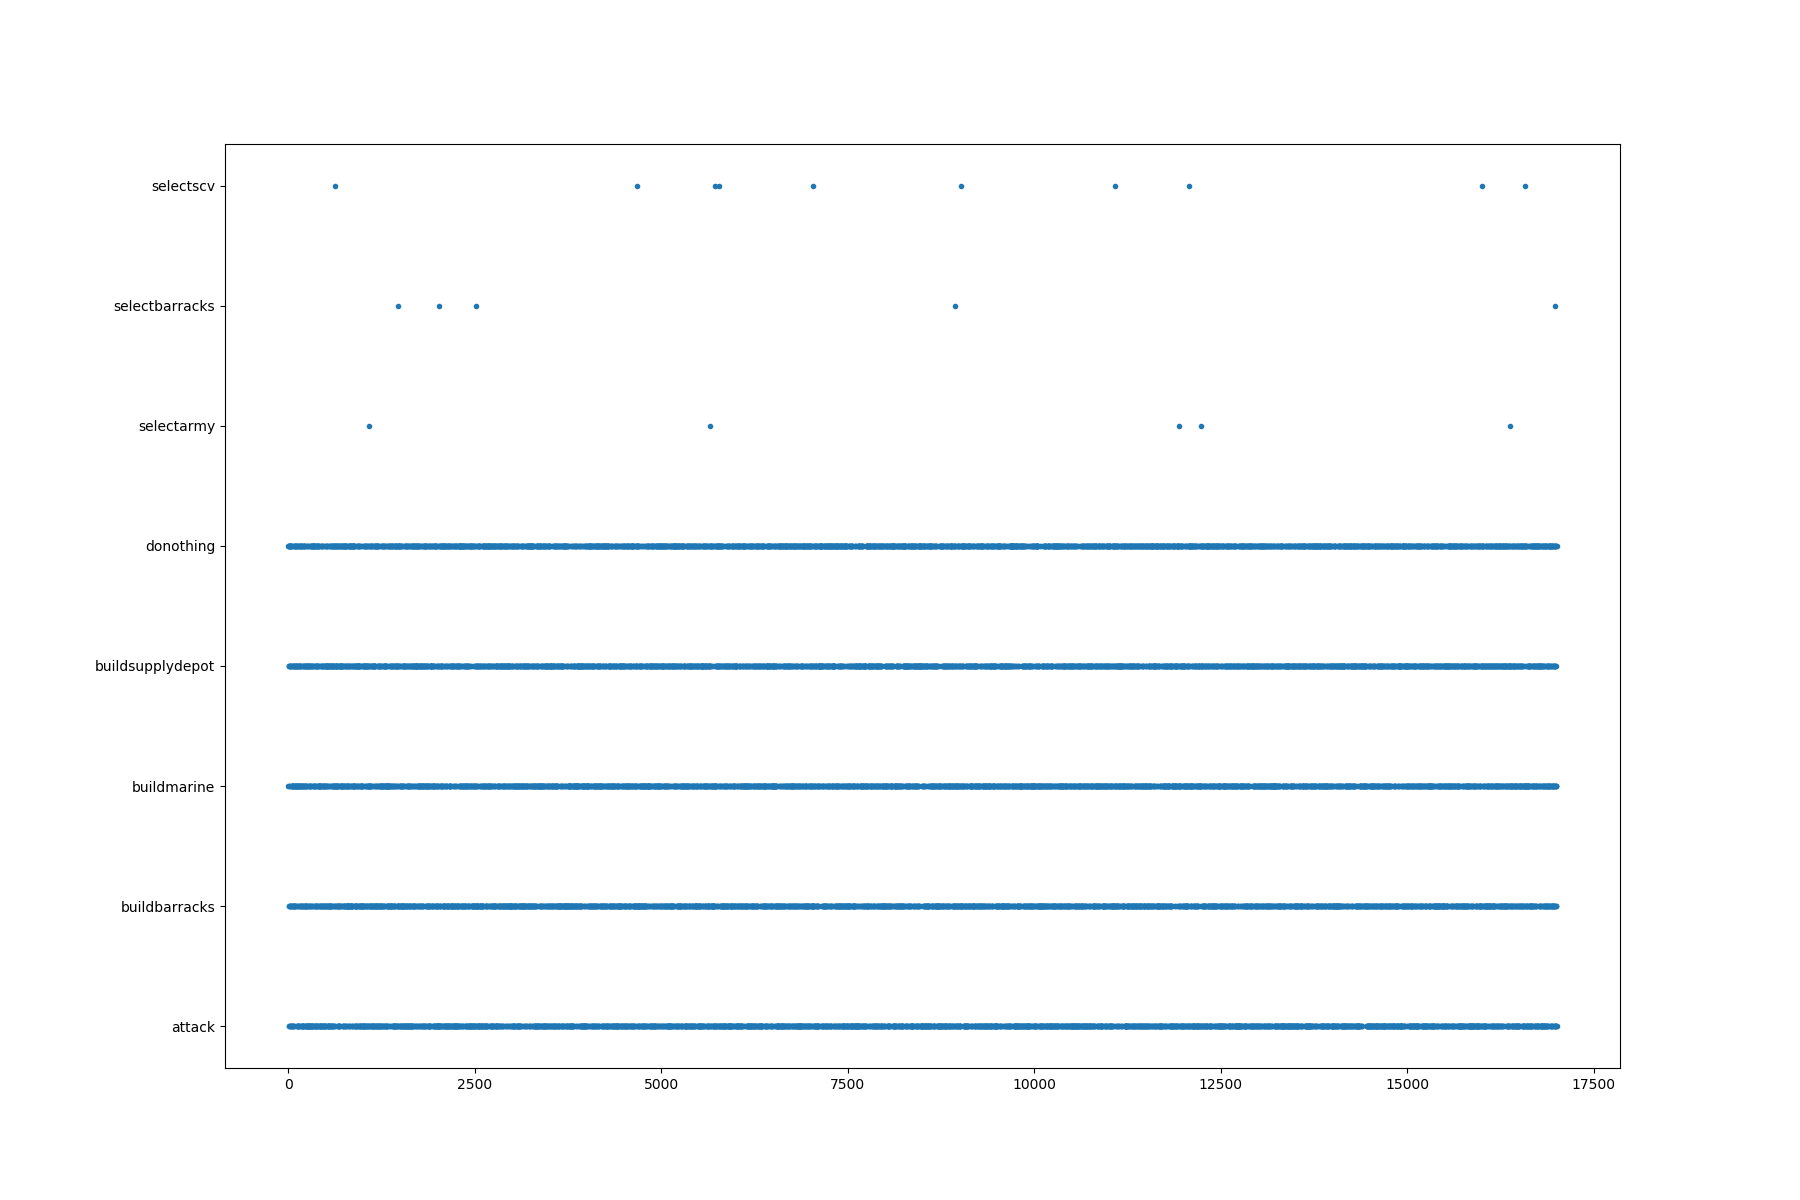
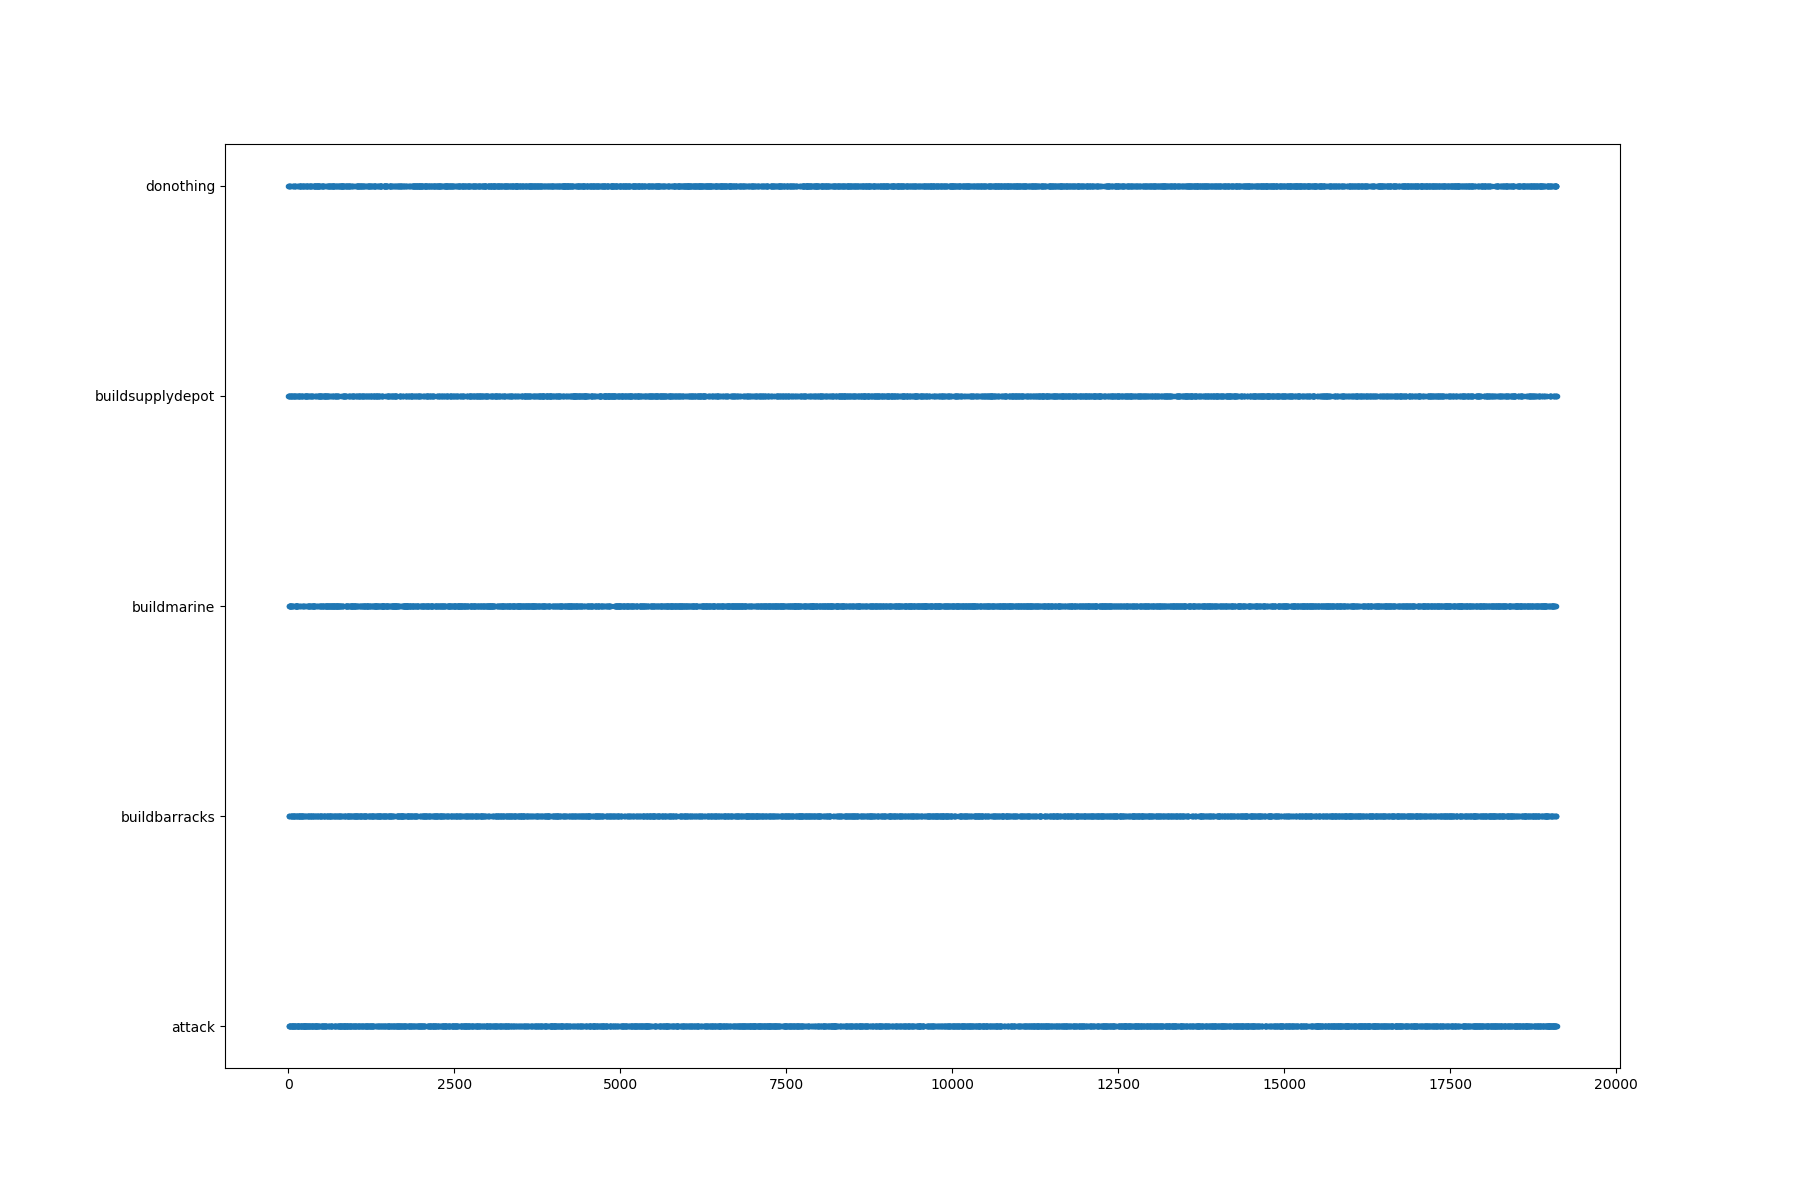
Simplified layers and modified the model to choose the x and y

diff --git a/src/QAgent.py b/src/QAgent.py
@@ -3,6 +3,7 @@ import torch.nn as nn
 import torch.nn.functional as F
 import torch.optim as optim
 import os
+from random import randrange
 
 import matplotlib.pyplot as plt
 
@@ -15,9 +16,10 @@ from pysc2.lib import actions
 
 DATA_FILE = 'sparse_agent_data'
 USE_CUDA = True
-SavedAction = namedtuple('SavedAction', ['log_prob', 'value'])
+IS_RANDOM = False
+SavedAction = namedtuple('SavedAction', ['log_prob', 'value', 'x', 'y'])
 layer = 2
-num_layers = 20
+num_layers = 4
 
 
 def convolution_layer(x, input_layers):
@@ -37,11 +39,13 @@ def residual_layer(x, input_layers, layer_size):
 class Policy(nn.Module):
     def __init__(self):
         super(Policy, self).__init__()
-        residual_out_size = 81920
+        residual_out_size = 62208
         self.mp = nn.MaxPool2d(8)
-        self.lin1 = nn.Linear(residual_out_size, 8192)
-        self.action_head = nn.Linear(8192, len(ACTIONS.smart_actions))
-        self.value_head = nn.Linear(8192, 1)
+        self.lin1 = nn.Linear(residual_out_size, 2048)
+        self.action_head = nn.Linear(2048, len(ACTIONS.smart_actions))
+        self.value_head = nn.Linear(2048, 1)
+        self.x = nn.Linear(2048, 64)
+        self.y = nn.Linear(2048, 64)
         self.saved_log_probs = []
         self.rewards = []
         self.saved_actions = []
@@ -50,25 +54,31 @@ class Policy(nn.Module):
     def select_action(self, state):
         state = torch.from_numpy(state).float().unsqueeze(0)
         if USE_CUDA and torch.cuda.is_available():
-            probs, state_value = self.forward(Variable(state).cuda())
+            probs, state_value, x, y = self.forward(Variable(state).cuda())
         else:
-            probs, state_value = self.forward(Variable(state))
+            probs, state_value, x, y = self.forward(Variable(state))
         m = Categorical(probs)
+        x_probs = Categorical(x)
+        y_probs = Categorical(y)
+        x_coord = x_probs.sample()
+        y_coord = y_probs.sample()
         action = m.sample()
-        self.saved_actions.append(SavedAction(m.log_prob(action).data[0], state_value.data[0][0]))
+        self.saved_actions.append(SavedAction(m.log_prob(action).data[0], state_value.data[0][0], x_probs.log_prob(x_coord).data[0], y_probs.log_prob(y_coord).data[0]))
         # self.saved_actions.append(SavedAction(m.log_prob(action), state_value))
-        return action.data[0]
+        return action.data[0], x_coord, y_coord
 
     def forward(self, x):
         x = convolution_layer(x, layer * num_layers)
         x = residual_layer(x, 256, 78)
-        x = residual_layer(x, 256 * 2, 74)
-        x = residual_layer(x, 256 * 3, 70)
-        x = self.mp(residual_layer(x, 256 * 4, 66))
+        # x = residual_layer(x, 256 * 2, 74)
+        # x = residual_layer(x, 256 * 3, 70)
+        x = self.mp(residual_layer(x, 256 * 2, 74))
         x = F.relu(self.lin1(x.view(x.size(0), -1)))
         action_scores = self.action_head(x)
         state_values = self.value_head(x)
-        return F.softmax(action_scores, dim=-1), state_values
+        x_coord = self.x(x)
+        y_coord = self.y(x)
+        return F.softmax(action_scores, dim=-1), state_values, F.softmax(x_coord, dim=-1), F.softmax(y_coord, dim=-1)
 
 
 def finish_episode(model, optimizer):
@@ -84,11 +94,13 @@ def finish_episode(model, optimizer):
         rewards.insert(0, R)
     rewards = torch.Tensor(rewards)
     rewards = (rewards - rewards.mean()) / (rewards.std() + np.finfo(np.float32).eps)
-    for (log_prob, value), r in zip(saved_actions, rewards):
+    for (log_prob, value, x_prob, y_prob), r in zip(saved_actions, rewards):
         log_prob = Variable(torch.FloatTensor([log_prob]), requires_grad=True).cuda()
+        x_prob = Variable(torch.FloatTensor([x_prob]), requires_grad=True).cuda()
+        y_prob = Variable(torch.FloatTensor([y_prob]), requires_grad=True).cuda()
         value = Variable(torch.FloatTensor([[value]]), requires_grad=True).cuda()
         reward = r - value.data[0]
-        policy_losses.append(-log_prob * Variable(reward))
+        policy_losses.append(-log_prob * Variable(reward) + -x_prob * Variable(reward) + -y_prob * Variable(reward))
         value_losses.append(F.smooth_l1_loss(value, Variable(torch.Tensor([r])).cuda()))
     optimizer.zero_grad()
     loss = torch.stack(policy_losses).sum() + torch.stack(value_losses).sum()
@@ -98,7 +110,9 @@ def finish_episode(model, optimizer):
     del model.rewards[:]
     del model.saved_actions[:]
 
+
 policy = Policy()
+
 
 class RLAgent(base_agent.BaseAgent):
     def __init__(self):
@@ -106,7 +120,7 @@ class RLAgent(base_agent.BaseAgent):
         self.policy = policy
         if USE_CUDA and torch.cuda.is_available():
             self.policy = self.policy.cuda()
-        self.optimizer = optim.Adam(self.policy.parameters(), lr=1e-2)
+        self.optimizer = optim.Adam(self.policy.parameters(), lr=0.01)
 
         self.previous_action = None
         self.previous_state = None
@@ -131,10 +145,15 @@ class RLAgent(base_agent.BaseAgent):
         print("Won: ", self.won, " Lost: ", self.lost, "Tied: ", self.tied)
 
     def step(self, obs):
+
+        if IS_RANDOM:
+            if self.step_num % 3 != 0:
+                return
+
         super(RLAgent, self).step(obs)
         self.step_num += 1
         if obs.last():
-            reward = -500 if obs.reward == 0 else obs.reward * 500
+            reward = obs.reward * 15
 
             self.policy.rewards.append(reward)
             # plt.plot(self.policy.rewards)
@@ -143,19 +162,20 @@ class RLAgent(base_agent.BaseAgent):
             self.previous_state = None
 
             self.move_number = 0
-            # Train our network.
-            print("Episode Reward: ", sum(self.policy.rewards))
-            plt.figure(figsize=(18.0, 12.0))
-            plt.plot(self.actions, '.')
-            script_dir = os.path.dirname(__file__)
-            results_dir = os.path.join(script_dir, 'A2CResults/')
-            sample_file_name = str(self.episodes)
+            if IS_RANDOM is False:
+                # Train our network.
+                print("Episode Reward: ", sum(self.policy.rewards))
+                plt.figure(figsize=(18.0, 12.0))
+                plt.plot(self.actions, '.')
+                script_dir = os.path.dirname(__file__)
+                results_dir = os.path.join(script_dir, 'A2CResults/')
+                sample_file_name = str(self.episodes)
 
-            if not os.path.isdir(results_dir):
-                os.makedirs(results_dir)
+                if not os.path.isdir(results_dir):
+                    os.makedirs(results_dir)
 
-            plt.savefig(results_dir + sample_file_name)
-            finish_episode(self.policy, self.optimizer)
+                plt.savefig(results_dir + sample_file_name)
+                finish_episode(self.policy, self.optimizer)
             if obs.reward > 0:
                 self.won += 1
             elif obs.reward == 0:
@@ -201,10 +221,10 @@ class RLAgent(base_agent.BaseAgent):
                 killed_unit_score = obs.observation['score_cumulative'][5]
                 killed_building_score = obs.observation['score_cumulative'][6]
 
-                # if killed_building_score > self.previous_killed_building_score:
-                #     reward += 1
-                # if killed_unit_score > self.previous_killed_units_score:
-                #     reward += 0.05
+                if killed_building_score > self.previous_killed_building_score:
+                    reward += 1
+                if killed_unit_score > self.previous_killed_units_score:
+                    reward += 0.05
 
                 self.policy.rewards.append(reward)
                 # finish_episode(self.policy, self.optimizer)
@@ -212,36 +232,31 @@ class RLAgent(base_agent.BaseAgent):
                 self.previous_killed_building_score = killed_building_score
                 self.previous_killed_units_score = killed_unit_score
 
-            # if self.rl_input is None:
-            #     self.rl_input = np.array([np.pad(obs.observation['minimap'][0], [(0, 20), (0, 20)], mode='constant'),
-            #                      np.pad(obs.observation['minimap'][1], [(0, 20), (0, 20)], mode='constant'),
-            #                      np.pad(obs.observation['minimap'][5], [(0, 20), (0, 20)], mode='constant'),
-            #                      obs.observation['screen'][6]])
-            # else:
-            #     self.rl_input = np.concatenate((self.rl_input, np.array([np.pad(obs.observation['minimap'][0], [(0, 20), (0, 20)], mode='constant'),
-            #                      np.pad(obs.observation['minimap'][1], [(0, 20), (0, 20)], mode='constant'),
-            #                      np.pad(obs.observation['minimap'][5], [(0, 20), (0, 20)], mode='constant'),
-            #                      obs.observation['screen'][6]])))
+            if IS_RANDOM is False:
+                if self.rl_input is None:
+                    self.rl_input = np.array([np.pad(obs.observation['minimap'][5], [(0, 20), (0, 20)], mode='constant'),
+                                     obs.observation['screen'][6]])
+                    for _ in range(num_layers - 1):
+                        self.rl_input = np.concatenate((self.rl_input, np.array(
+                            [np.pad(obs.observation['minimap'][5], [(0, 20), (0, 20)], mode='constant'),
+                             obs.observation['screen'][6]])))
+                else:
+                    self.rl_input = np.concatenate((self.rl_input, np.array([np.pad(obs.observation['minimap'][5], [(0, 20), (0, 20)], mode='constant'),
+                                     obs.observation['screen'][6]])))
 
-            if self.rl_input is None:
-                self.rl_input = np.array([np.pad(obs.observation['minimap'][5], [(0, 20), (0, 20)], mode='constant'),
-                                 obs.observation['screen'][6]])
-                for _ in range(num_layers - 1):
-                    self.rl_input = np.concatenate((self.rl_input, np.array(
-                        [np.pad(obs.observation['minimap'][5], [(0, 20), (0, 20)], mode='constant'),
-                         obs.observation['screen'][6]])))
-            else:
-                self.rl_input = np.concatenate((self.rl_input, np.array([np.pad(obs.observation['minimap'][5], [(0, 20), (0, 20)], mode='constant'),
-                                 obs.observation['screen'][6]])))
-
-            if self.rl_input.shape == (layer * num_layers, 84, 84):
-                rl_action = self.policy.select_action(self.rl_input)
-                self.rl_input = np.delete(self.rl_input, np.s_[0:2], axis=0)
+            if IS_RANDOM or self.rl_input.shape == (layer * num_layers, 84, 84):
+                if IS_RANDOM:
+                    rl_action = randrange(0, len(ACTIONS.smart_actions))
+                else:
+                    rl_action, x, y = self.policy.select_action(self.rl_input)
+                    self.rl_input = np.delete(self.rl_input, np.s_[0:2], axis=0)
 
                 self.previous_state = current_state
                 self.previous_action = rl_action
+                self.prev_x = x
+                self.prev_y = y
 
-                smart_action, x, y = split_action(self.previous_action)
+                smart_action = ACTIONS.smart_actions[rl_action]
                 self.actions.append(smart_action)
 
                 if smart_action == ACTIONS.ACTION_BUILD_BARRACKS or smart_action == ACTIONS.ACTION_BUILD_SUPPLY_DEPOT:
@@ -267,7 +282,9 @@ class RLAgent(base_agent.BaseAgent):
         elif self.move_number == 1:
             self.move_number += 1
 
-            smart_action, x, y = split_action(self.previous_action)
+            smart_action = ACTIONS.smart_actions[self.previous_action]
+            x = self.prev_x
+            y = self.prev_y
 
             if smart_action == ACTIONS.ACTION_BUILD_SUPPLY_DEPOT:
                 if ACTIONS.BUILD_SUPPLY_DEPOT in obs.observation['available_actions']:
@@ -306,7 +323,9 @@ class RLAgent(base_agent.BaseAgent):
         elif self.move_number == 2:
             self.move_number = 0
 
-            smart_action, x, y = split_action(self.previous_action)
+            smart_action = ACTIONS.smart_actions[self.previous_action]
+            x = self.prev_x
+            y = self.prev_y
 
             if smart_action == ACTIONS.ACTION_BUILD_BARRACKS or smart_action == ACTIONS.ACTION_BUILD_SUPPLY_DEPOT:
                 if ACTIONS.HARVEST_GATHER in obs.observation['available_actions']:

diff --git a/src/constants/actions.py b/src/constants/actions.py
@@ -20,20 +20,17 @@ ACTION_ATTACK = 'attack'
 
 smart_actions = [
     ACTION_DO_NOTHING,
-    ACTION_SELECT_SCV,
     ACTION_BUILD_SUPPLY_DEPOT,
     ACTION_BUILD_BARRACKS,
-    ACTION_SELECT_BARRACKS,
     ACTION_BUILD_MARINE,
-    ACTION_SELECT_ARMY,
     ACTION_ATTACK,
 ]
 
-for mm_x in range(0, 64):
-    for mm_y in range(0, 64):
-        if mm_x % 3 == 0 and mm_y % 3 == 0:
-            smart_actions.append(ACTION_DO_NOTHING)
-            smart_actions.append(ACTION_BUILD_MARINE)
-            smart_actions.append(ACTION_BUILD_BARRACKS + '_' + str(mm_x) + '_' + str(mm_y))
-            smart_actions.append(ACTION_BUILD_SUPPLY_DEPOT + '_' + str(mm_x) + '_' + str(mm_y))
-            smart_actions.append(ACTION_ATTACK + '_' + str(mm_x) + '_' + str(mm_y))
+# for mm_x in range(0, 64):
+#     for mm_y in range(0, 64):
+#         if mm_x % 3 == 0 and mm_y % 3 == 0:
+#             smart_actions.append(ACTION_DO_NOTHING)
+#             smart_actions.append(ACTION_BUILD_MARINE)
+#             smart_actions.append(ACTION_BUILD_BARRACKS + '_' + str(mm_x) + '_' + str(mm_y))
+#             smart_actions.append(ACTION_BUILD_SUPPLY_DEPOT + '_' + str(mm_x) + '_' + str(mm_y))
+#             smart_actions.append(ACTION_ATTACK + '_' + str(mm_x) + '_' + str(mm_y))
